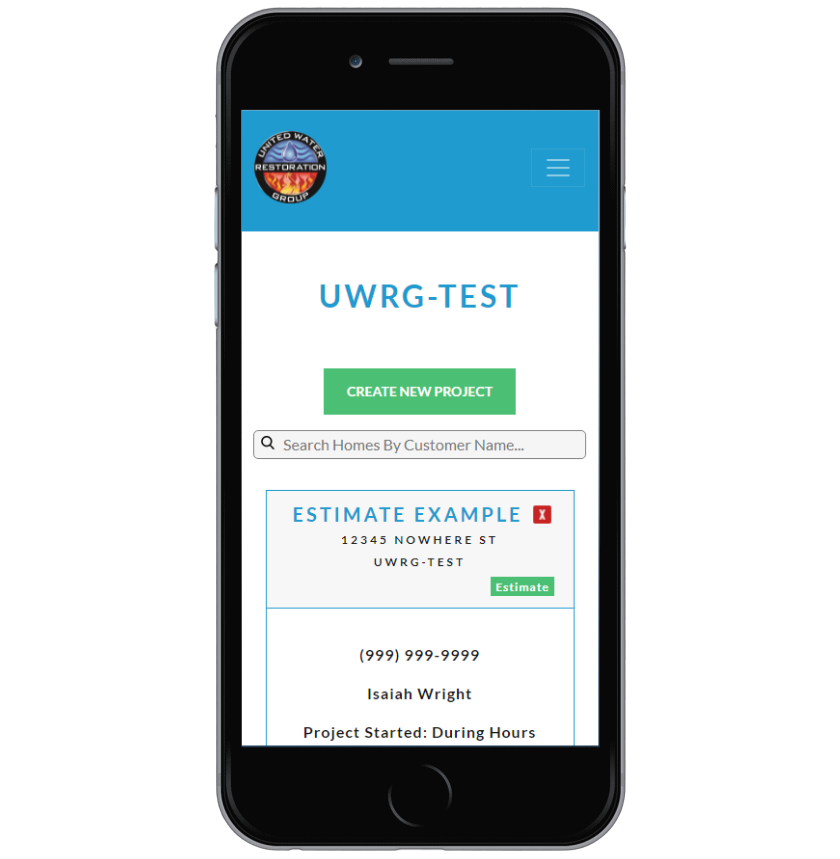
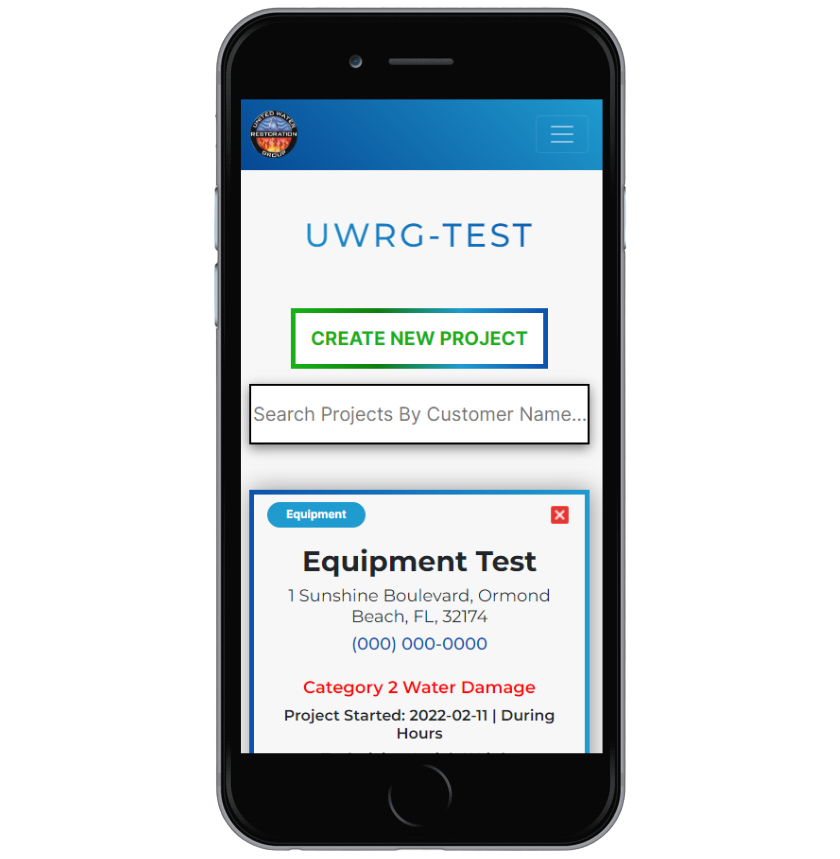
updated wde pictures

Changed region(s): [[0.2786, 0.0908, 0.7429, 0.8778]]

diff --git a/index.html b/index.html
@@ -289,9 +289,9 @@ emailjs.init("user_tYgYSfElJjF8aE5hTX1ws");
     <div class="row">
       <div class="col-lg-6 center-on-mobile" style="position: relative;">
         <img data-aos="fade-right" data-aos-delay="800" data-aos-once="true" class="img-fluid wde-tablet"
-          src="./img/wde-tablet2.png" alt="">
+          src="./img/wde-tablet.png" alt="">
         <img data-aos="fade-left" data-aos-delay="1000" data-aos-once="true" class="img-fluid wde-phone"
-          src="./img/wde-phone2.png" alt="">
+          src="./img/wde-phone.png" alt="">
       </div>
       <div class="col-lg-6 pt-5">
         <div class="row" data-aos="fade-left" data-aos-delay="1000" data-aos-once="true">
